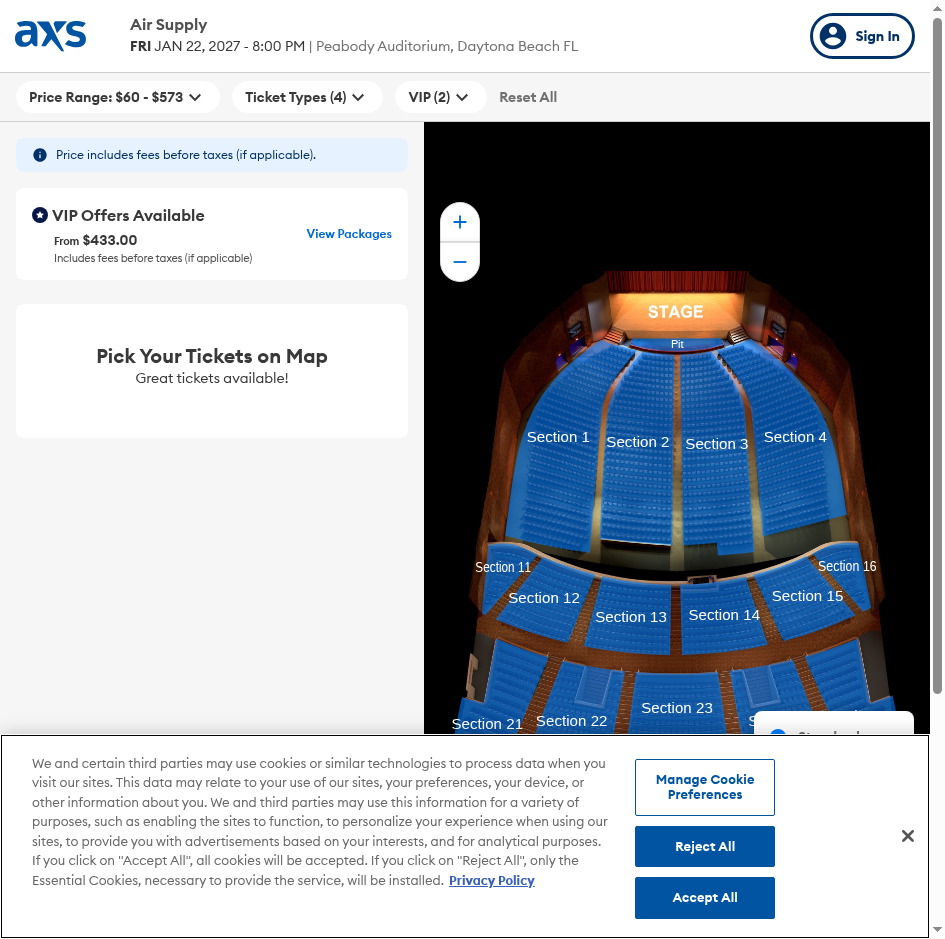
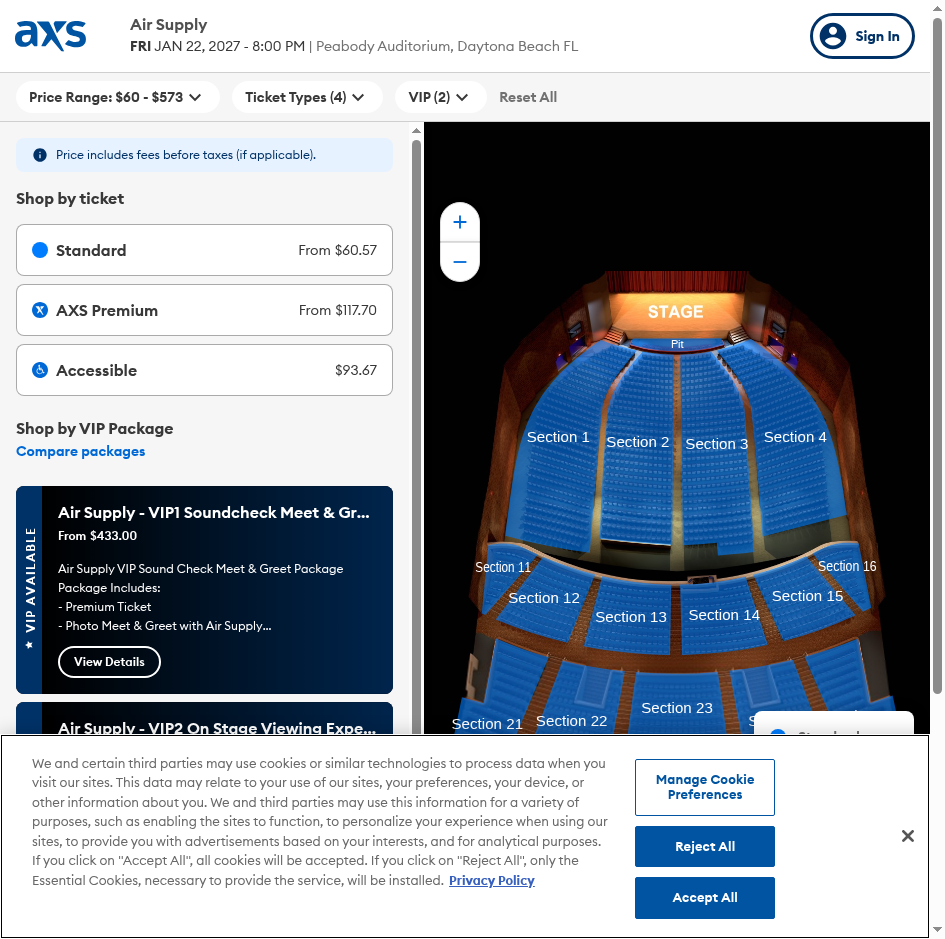
Updated logic

diff --git a/app/main.py b/app/main.py
@@ -1,5 +1,4 @@
 import logging
-import random
 from pathlib import Path
 
 from app.browser import close_browser, init_browser, take_link_screenshot
@@ -24,14 +23,26 @@ def screenshot_path(link: str) -> Path:
 
 def main():
     valid_proxies = get_valid_proxies()
-    random_proxy = random.choice(valid_proxies)
-    browser = init_browser(random_proxy)
+
     for link in settings.TARGET_LINKS:
-        screenshot = take_link_screenshot(browser, link)
-        path = screenshot_path(link)
-        path.write_bytes(screenshot)
-        logger.info(f"Screenshot taken for {link}: {path} ({len(screenshot)} bytes)")
-    close_browser(browser)
+        for proxy in valid_proxies:
+            try:
+                browser = init_browser(proxy)
+                screenshot = take_link_screenshot(browser, link)
+            except Exception as e:  # noqa: BLE001
+                logger.error(f"Screenshot failed for {link} because of exception: {e}; so retrying with new proxy")
+                continue
+            finally:
+                close_browser(browser)
+            
+            if not screenshot:
+                logger.info(f"Screenshot failed for {link} because of no screenshot; so retrying with new proxy")
+                continue
+
+            path = screenshot_path(link)
+            path.write_bytes(screenshot)
+            logger.info(f"Screenshot taken for {link}: {path} ({len(screenshot)} bytes)")
+            break
 
 
 if __name__ == "__main__":

diff --git a/app/browser.py b/app/browser.py
@@ -17,11 +17,17 @@ def init_browser(proxy: str):
 
 def take_link_screenshot(browser: Browser, link: str):
     page = browser.new_page()
-    page.goto(link)
 
-    # wait for page to load, just for sure;
-    # of course in real project better wait for some tag is loaded, like map container, etc
-    page.wait_for_timeout(120_000)
+    # The listener must be armed before goto: the sections request can finish
+    # while goto is still waiting for "load", and would be missed otherwise.
+    with page.expect_response(
+        lambda response: "/sections?" in response.url and response.ok,
+        timeout=120_000,
+    ):
+        page.goto(link)
+
+    # wait some time to response is processed and seats are rendered    
+    page.wait_for_timeout(3_000)
 
     screenshot = page.screenshot(type="png")
     page.close()
